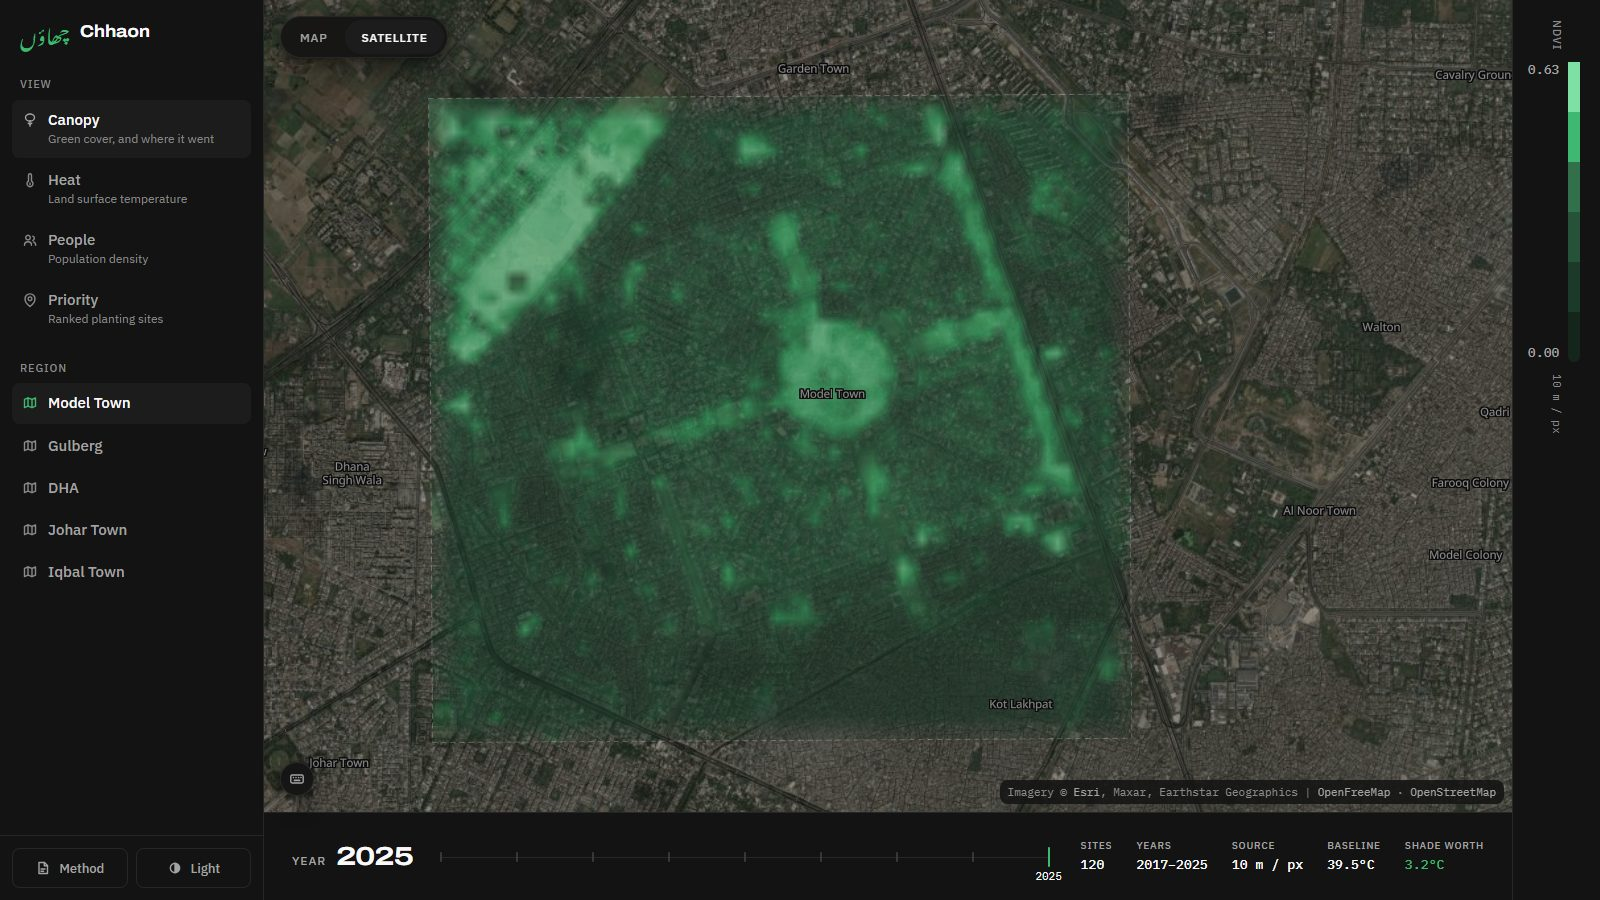
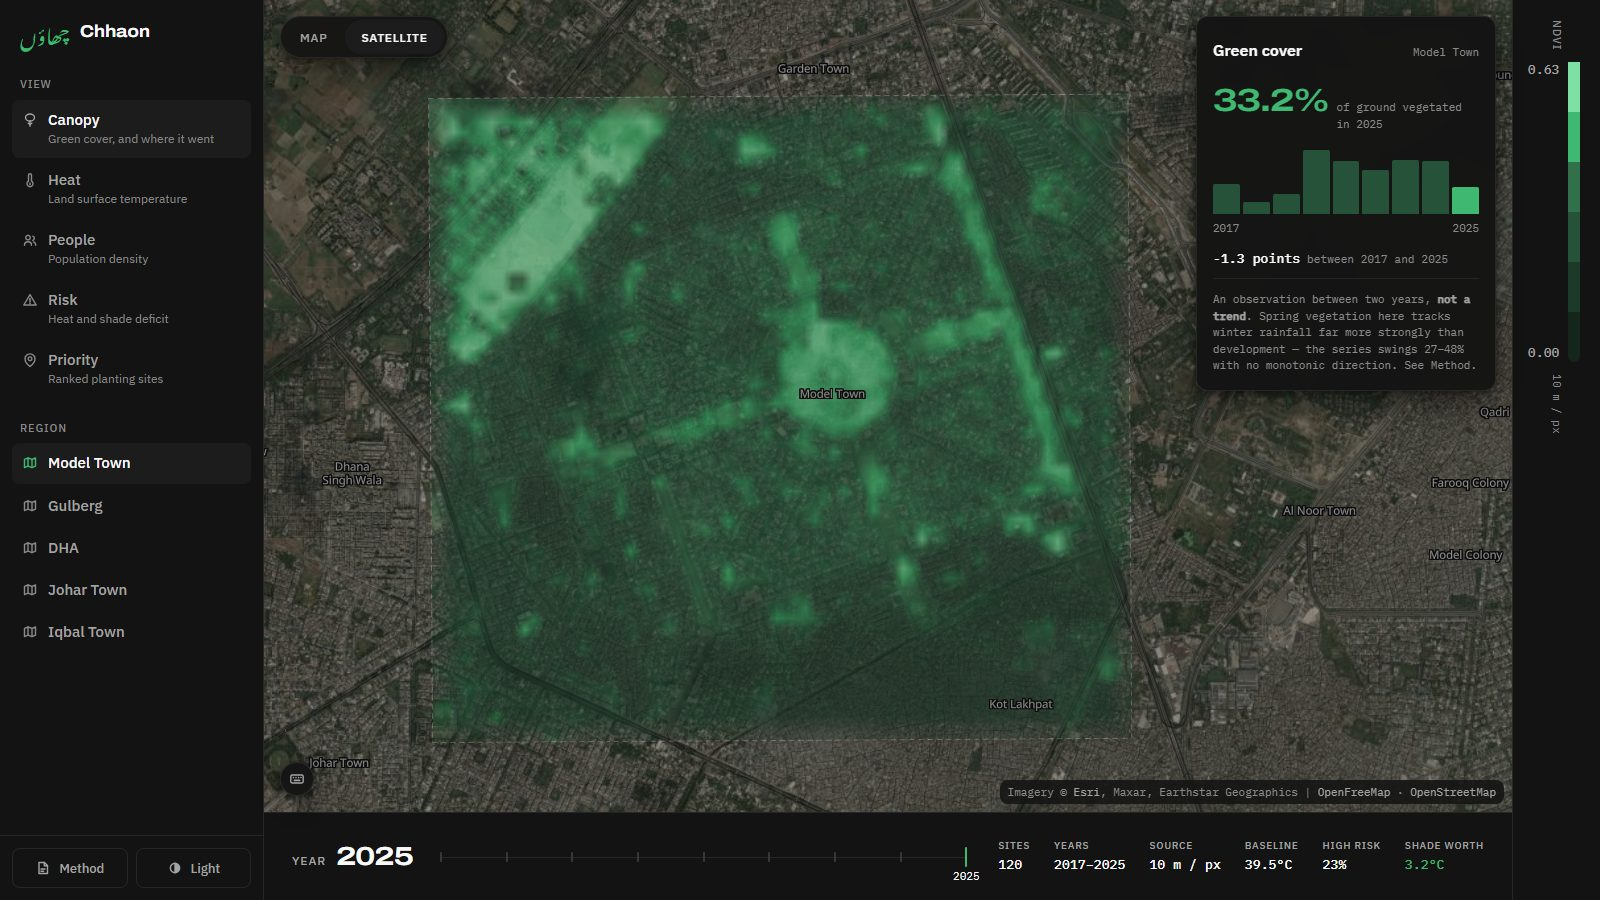
Document risk bands, estimated benefits, the species fix and the roadmap
Method screen gains three sections — what the risk bands are and why their
edges are fixed across regions, why CO2 and PM2.5 are one stated coefficient
rather than seven invented constants, and the monoculture problem with what
replaced it. Plus a 'what this is not, yet' section naming live AQI, a WMS
endpoint, corridor analysis, shade simulation, change detection, Urdu, PDF
reports and city-wide ranking as unbuilt, because a tool clear about its own
edges is easier to trust.

README and docs/PRODUCT.md updated to match, with the Risk view added to the
screenshots and the honest totals in place: ~19 t CO2/year across all 600
sites, about four cars' worth.

Verified: production build OK, QA passes all five regions, logic tests pass,
smoke PASS with 120 dots.

Changed region(s): [[0.7188, 0.0, 0.9375, 0.4667], [0.0, 0.3111, 0.0938, 0.7156], [0.625, 0.9333, 0.875, 0.9644]]

diff --git a/src/ui/Methodology.tsx b/src/ui/Methodology.tsx
@@ -175,6 +175,72 @@ export function Methodology() {
         </section>
 
         <section className="method__sec">
+          <h2 className="t-heading">Risk bands, and what they are</h2>
+          <p className="t-body">
+            The Risk view is a <strong>relabelling of data already measured</strong>,
+            not a new analysis: surface temperature above this region&apos;s own
+            well-vegetated baseline, weighted 60/40 against how far below the
+            vegetation threshold the cell sits. Four fixed bands, because a
+            report says &ldquo;High risk&rdquo; and a gradient does not.
+          </p>
+          <p className="t-body">
+            The band edges are the same in every region deliberately. Clipping
+            them to each region&apos;s own spread would make &ldquo;High&rdquo;
+            mean something different in Model Town than in DHA, which is exactly
+            what you do not want when the whole point is comparing places.
+          </p>
+        </section>
+
+        <section className="method__sec">
+          <h2 className="t-heading">CO&#8322; and PM2.5 are estimates, not measurements</h2>
+          <p className="t-body">
+            Both come from <strong>one published coefficient applied to a
+            species&apos; mature crown area</strong> &mdash; roughly 0.44 kg CO&#8322;
+            and 1.2 g PM2.5 per m&sup2; of crown per year, anchored on standard
+            urban-forestry figures. We could have invented seven per-species
+            constants; stating one openly is more defensible than pretending to
+            field data we do not have for Lahore.
+          </p>
+          <p className="t-body">
+            Two things follow, and both are worth saying out loud. First, these
+            assume every tree survives to maturity, which in practice they do
+            not. Second, the totals are <strong>honest but modest</strong>: all
+            600 recommended sites fully grown come to roughly 19 tonnes of CO&#8322;
+            a year, about four cars&apos; worth. Urban planting is a heat and air
+            quality intervention at this scale, not a carbon strategy, and the
+            number says so.
+          </p>
+        </section>
+
+        <section className="method__sec">
+          <h2 className="t-heading">Species matching, and monoculture risk</h2>
+          <p className="t-body">
+            An earlier version picked the first species in list order that
+            cleared the land-use and width bars. Neem sits first and clears a
+            roadside verge at 3 m &mdash; the lowest bar of any species &mdash;
+            and roadside is 91&ndash;100% of the plantable public land here, so
+            Neem won almost every site. <strong>Every region came out
+            91&ndash;100% Neem.</strong>
+          </p>
+          <p className="t-body">
+            That is a genuine urban-forestry failure, not just a cosmetic one:
+            a uniform avenue loses the entire street to one pest or disease.
+            Eligible species are now scored on canopy delivered, drought
+            tolerance against the site&apos;s own vegetation index, water
+            affinity against canal-side ground, and an explicit diversity term
+            that steers away from any species already over its share.
+            {rm?.diversity && (
+              <> In {REGIONS.find((r) => r.id === region)?.name} that gives{' '}
+                <span className="t-data">{rm.diversity.count}</span> species with{' '}
+                {rm.diversity.topSpecies} at{' '}
+                <span className="t-data">
+                  {(rm.diversity.topShare * 100).toFixed(0)}%
+                </span>.</>
+            )}
+          </p>
+        </section>
+
+        <section className="method__sec">
           <h2 className="t-heading">Sources</h2>
           <dl className="method__sources">
             <div><dt className="t-label">Green cover</dt>
@@ -235,6 +301,47 @@ export function Methodology() {
             the headline relationship is thinner there than in Model Town or
             Gulberg.
           </p>
+        </section>
+
+
+        <section className="method__sec">
+          <h2 className="t-heading">What this is not, yet</h2>
+          <p className="t-body">
+            Named here rather than implied, because a tool that is clear about
+            its own edges is easier to trust than one that is not.
+          </p>
+          <ul className="method__list t-body">
+            <li>
+              <strong>Live air quality.</strong> Everything here is precomputed
+              and committed, so nothing can fail mid-demo. A live AQI feed would
+              be the first runtime dependency, and the right way to add it is at
+              regeneration time into the same static files &mdash; genuinely
+              current, still demo-safe.
+            </li>
+            <li>
+              <strong>A WMS/XYZ endpoint.</strong> GeoJSON export exists; serving
+              the layers as tiles a GIS can subscribe to is the natural next step.
+            </li>
+            <li>
+              <strong>Corridor analysis.</strong> Clusters of top sites along a
+              connected stretch of road or canal are worth more than the same
+              trees scattered. The data to detect that is already on hand.
+            </li>
+            <li>
+              <strong>Shade simulation.</strong> Drawing each recommendation&apos;s
+              mature canopy over the imagery would make the payoff legible at a
+              glance.
+            </li>
+            <li>
+              <strong>Change detection.</strong> Only honest once more years of
+              stable data exist &mdash; our own finding is that the 2017&ndash;2025
+              series does not yet show a real trend.
+            </li>
+            <li>
+              <strong>Urdu interface, PDF reports, city-wide ranking, and a
+              planner mode</strong> that records what has actually been planted.
+            </li>
+          </ul>
         </section>
 
         <section className="method__sec">

diff --git a/docs/PRODUCT.md b/docs/PRODUCT.md
@@ -116,7 +116,55 @@ read as a flat grey rectangle. Surface temperature had the same fault quietly.
 `domainFor()` clips to p2–p98, and **the map and the legend both read from it**,
 so the two cannot drift apart.
 
-### 3.7 Dark and satellite are the defaults
+### 3.7 Species matching is scored best-fit, with a diversity constraint
+
+The first version returned the **first species in list order** that cleared the
+land-use and width bars. Neem is listed first and clears roadside at 3 m — the
+lowest bar of any species — and roadside is 91–100% of plantable public land
+here. So Neem won almost every site and Amaltas was never reached: every region
+shipped **91–100% Neem**.
+
+That is a real urban-forestry failure, not a cosmetic one. A uniform avenue
+loses the whole street to a single pest or disease sweep.
+
+Eligible species are now scored on:
+
+- **canopy delivered** — shade is the product, so more mature crown is better;
+- **drought fit** against the site's own NDVI;
+- **water affinity** against whether the ground is canal-side;
+- an explicit **diversity term** that pushes down any species already over its
+  share (`MAX_SPECIES_SHARE`, 40%).
+
+Result: 4–7 species per region, top share **37–45%**.
+
+One bug caught while building it: the first scoring attempt rewarded *headroom*
+above the minimum width, which favoured whichever species needed the least room
+and handed every dry verge to **Moringa** — a small, short-lived tree. That
+would have replaced one monoculture with a worse one. `test_logic.py` now pins
+the forestry, not just the code: a dry narrow verge must return Neem, canal-side
+must return Arjun, a large park must return Pipal.
+
+### 3.8 CO2 and PM2.5 are one coefficient, not seven invented constants
+
+Both are **estimates**: ~0.44 kg CO2 and ~1.2 g PM2.5 per m² of mature crown per
+year, from standard urban-forestry figures, applied to each species' crown area.
+Stating one coefficient openly is more defensible than inventing per-species
+field data we do not have for Lahore.
+
+The totals are honest and modest — all 600 sites fully grown come to about
+**19 tonnes CO2/year, roughly 4 cars' worth**, plus
+~51 kg of PM2.5. Urban planting at this scale is a heat and air-quality
+intervention, not a carbon strategy, and we say so rather than inflating it.
+
+### 3.9 Risk bands are a relabelling, not a new analysis
+
+Surface temperature above the region's own vegetated baseline, weighted 60/40
+against canopy absence, cut into four **fixed** bands. Fixed deliberately:
+clipping the edges per region would make "High" mean something different in each
+one, which defeats comparing places. Defined once in `src/data/risk.ts` so the
+map, legend and summary statistic cannot drift apart.
+
+### 3.10 Dark and satellite are the defaults
 
 It is a thermal instrument. It reads better dark, and the measured fields land
 on real ground, which is what makes them believable at a glance.
@@ -198,6 +246,8 @@ python pipeline/run.py model-town # one region
 python pipeline/test_logic.py   # scoring, species matching, compositing — offline
 python pipeline/qa.py           # data sanity across every region
 node scripts/smoke.mjs          # map timing regression + rendered dot count
+npm run build && npx vite preview --port 4173
+node scripts/prodcheck.mjs      # the production build, where the worker bug hid
 node scripts/shots.mjs shots    # screenshots of every surface
 ```
 
@@ -220,6 +270,9 @@ Python will happily write but `JSON.parse` rejects.
 | 120 site dots drew nothing | Zoom expression nested inside a multiply — MapLibre needs it at the top level of a paint property |
 | Every Landsat read 403'd mid-run | Planetary Computer SAS tokens expire in under an hour and were cached without honouring it |
 | Overpass returned 406 | Needs a `User-Agent`. Buildings must be a separate query or it times out |
+| Vector basemap blank **in production only** | MapLibre builds its worker URL from a ternary at runtime, so Vite never emitted the file; a static host answered with index.html and `new Worker` hung on HTML. Raster basemaps never touch the worker, so satellite looked fine — see `vite.config.ts` |
+| Every Landsat read 403'd mid-run | Planetary Computer SAS tokens expire in under an hour and were cached without honouring it |
+| Every recommendation was Neem | First-match-wins species selection; Neem is listed first with the lowest width bar |
 
 The pattern in most of these: **the failure was silent.** Nothing threw. That is
 why the checks now count rendered features and parse strictly, rather than

diff --git a/README.md b/README.md
@@ -81,6 +81,13 @@ underneath. The layer validates itself against the imagery.
 
 ![Population density](docs/images/06-people.jpg)
 
+**Risk** — every cell classified Low / Medium / High / Critical from heat and
+shade deficit. Model Town's leafy core reads Low; the industrial belt to the
+south reads Critical. Discrete bands, because a department writes "High risk"
+in a report and a gradient gives them nothing to write.
+
+![Risk bands](docs/images/06b-risk.jpg)
+
 Light theme and the survey-sheet basemap are equally first-class.
 
 ![Light theme](docs/images/07-light.jpg)
@@ -144,6 +151,9 @@ water instead.
   have not checked ownership or buried utilities.
 - **The scoring weights are our judgment**, not a measurement. They are shown on
   every site so anyone can argue with them.
+- **CO2 and PM2.5 are estimated**, from one published coefficient times mature
+  crown area — not measured, not Lahore-specific, and they assume every tree
+  reaches maturity.
 
 ---
 
@@ -178,7 +188,7 @@ node scripts/docshots.mjs       # the images in this README
 
 | | |
 |---|---|
-| `1` – `4` | Canopy, Heat, People, Priority |
+| `1` – `5` | Canopy, Heat, People, Risk, Priority |
 | `Q W E R T` | Jump between the five regions |
 | `←` `→` | Step through years |
 | `↑` `↓` | Walk the ranked sites |
@@ -189,8 +199,16 @@ node scripts/docshots.mjs       # the images in this README
 | `M` | Method |
 | `Esc` | Clear selection |
 
+**Risk zones** classify every cell Low / Medium / High / Critical from heat and
+shade deficit — the language a department writes reports in, not a gradient.
+**Green cover** charts observed vegetated share by year, labelled an observation
+rather than a trend. Each site carries an **estimated** CO2 and PM2.5 figure
+once mature; all 600 together come to about 19 t CO2/year, roughly
+4 cars' worth — honest, and modest, because urban planting at this
+scale is a heat intervention rather than a carbon one.
+
 The ranked list filters by land use, species and people served, and exports to
-CSV. Every site has copy-coordinates and an open-in-Google-Maps link. The URL
+**CSV or GeoJSON** so a department's GIS team can open it in QGIS or ArcGIS. Every site has copy-coordinates and an open-in-Google-Maps link. The URL
 hash carries region, view, year, selected site, theme and basemap, so any view
 can be sent to someone.
 
